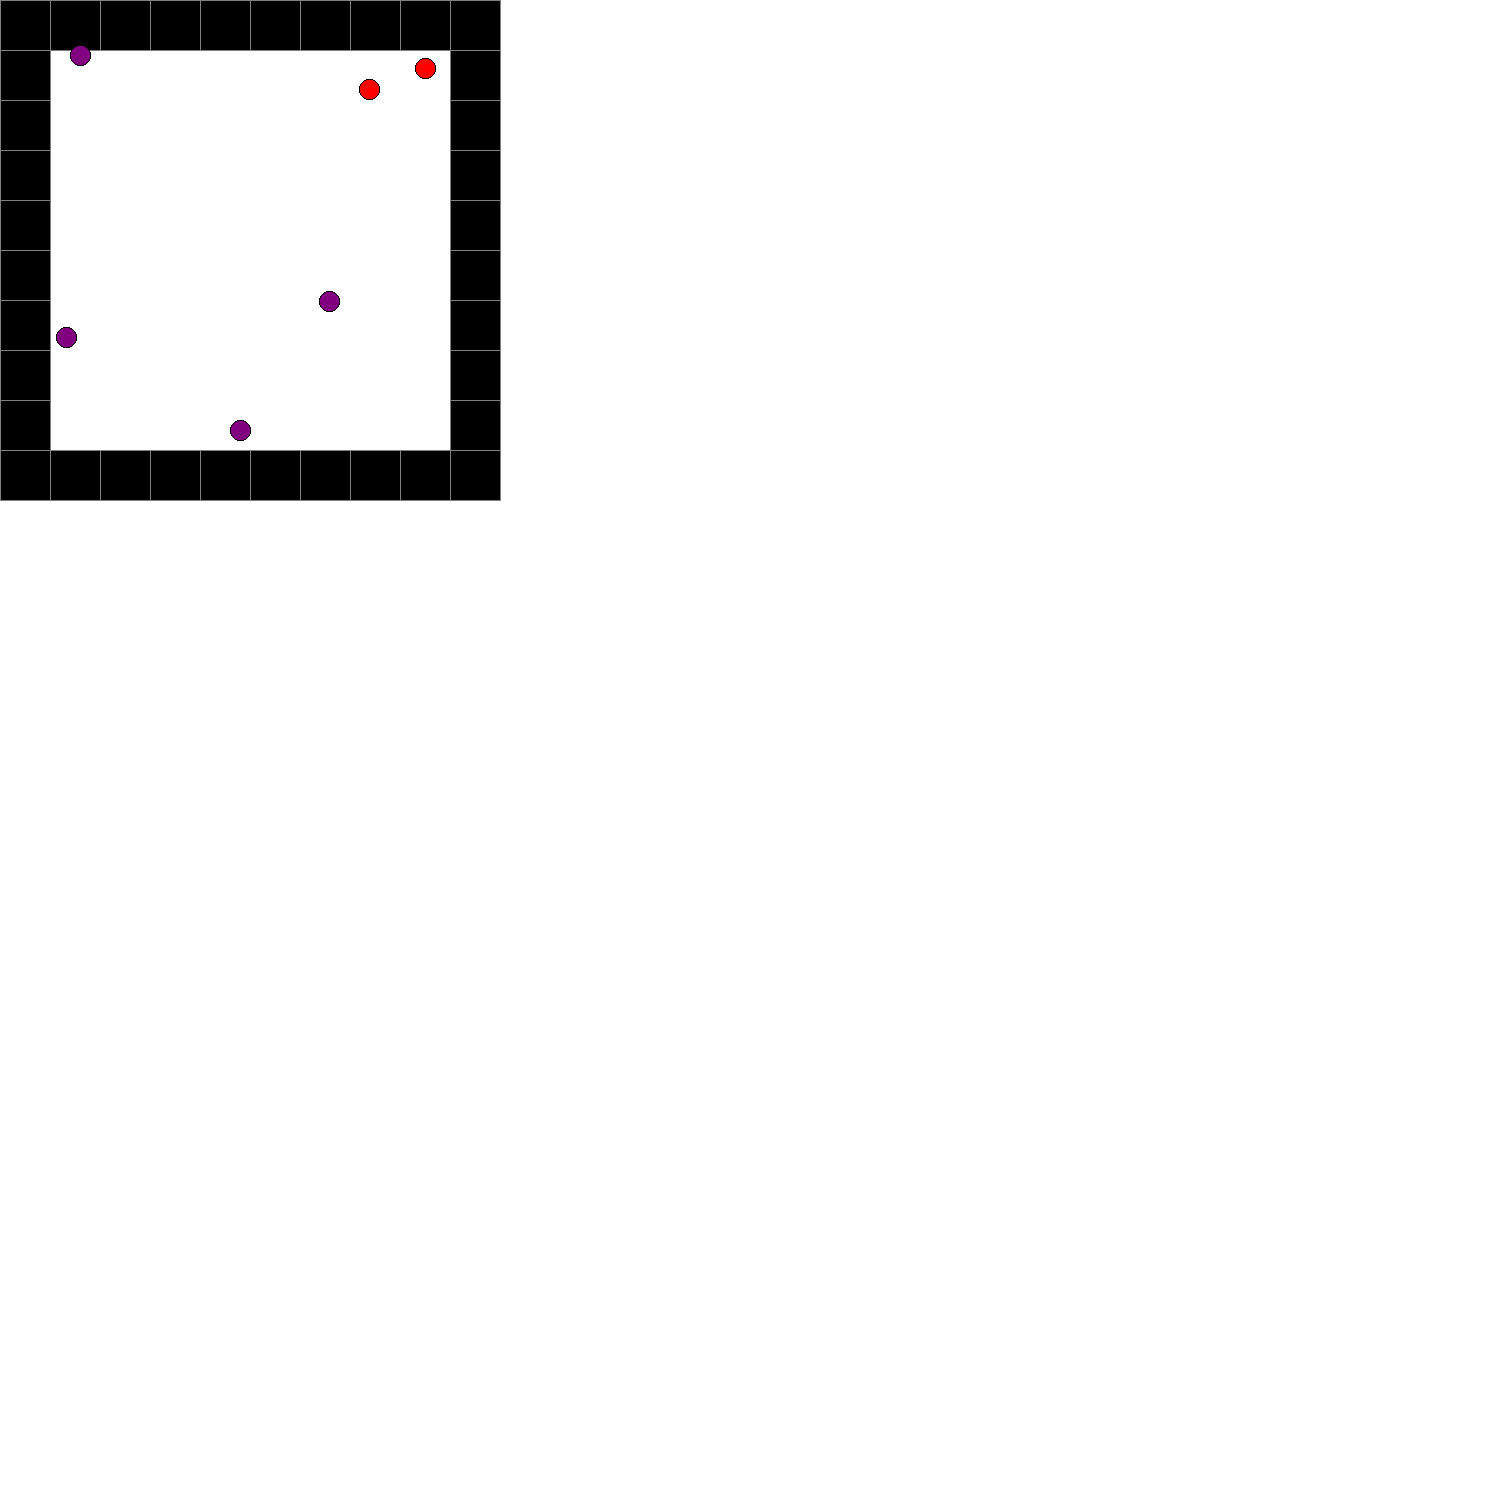
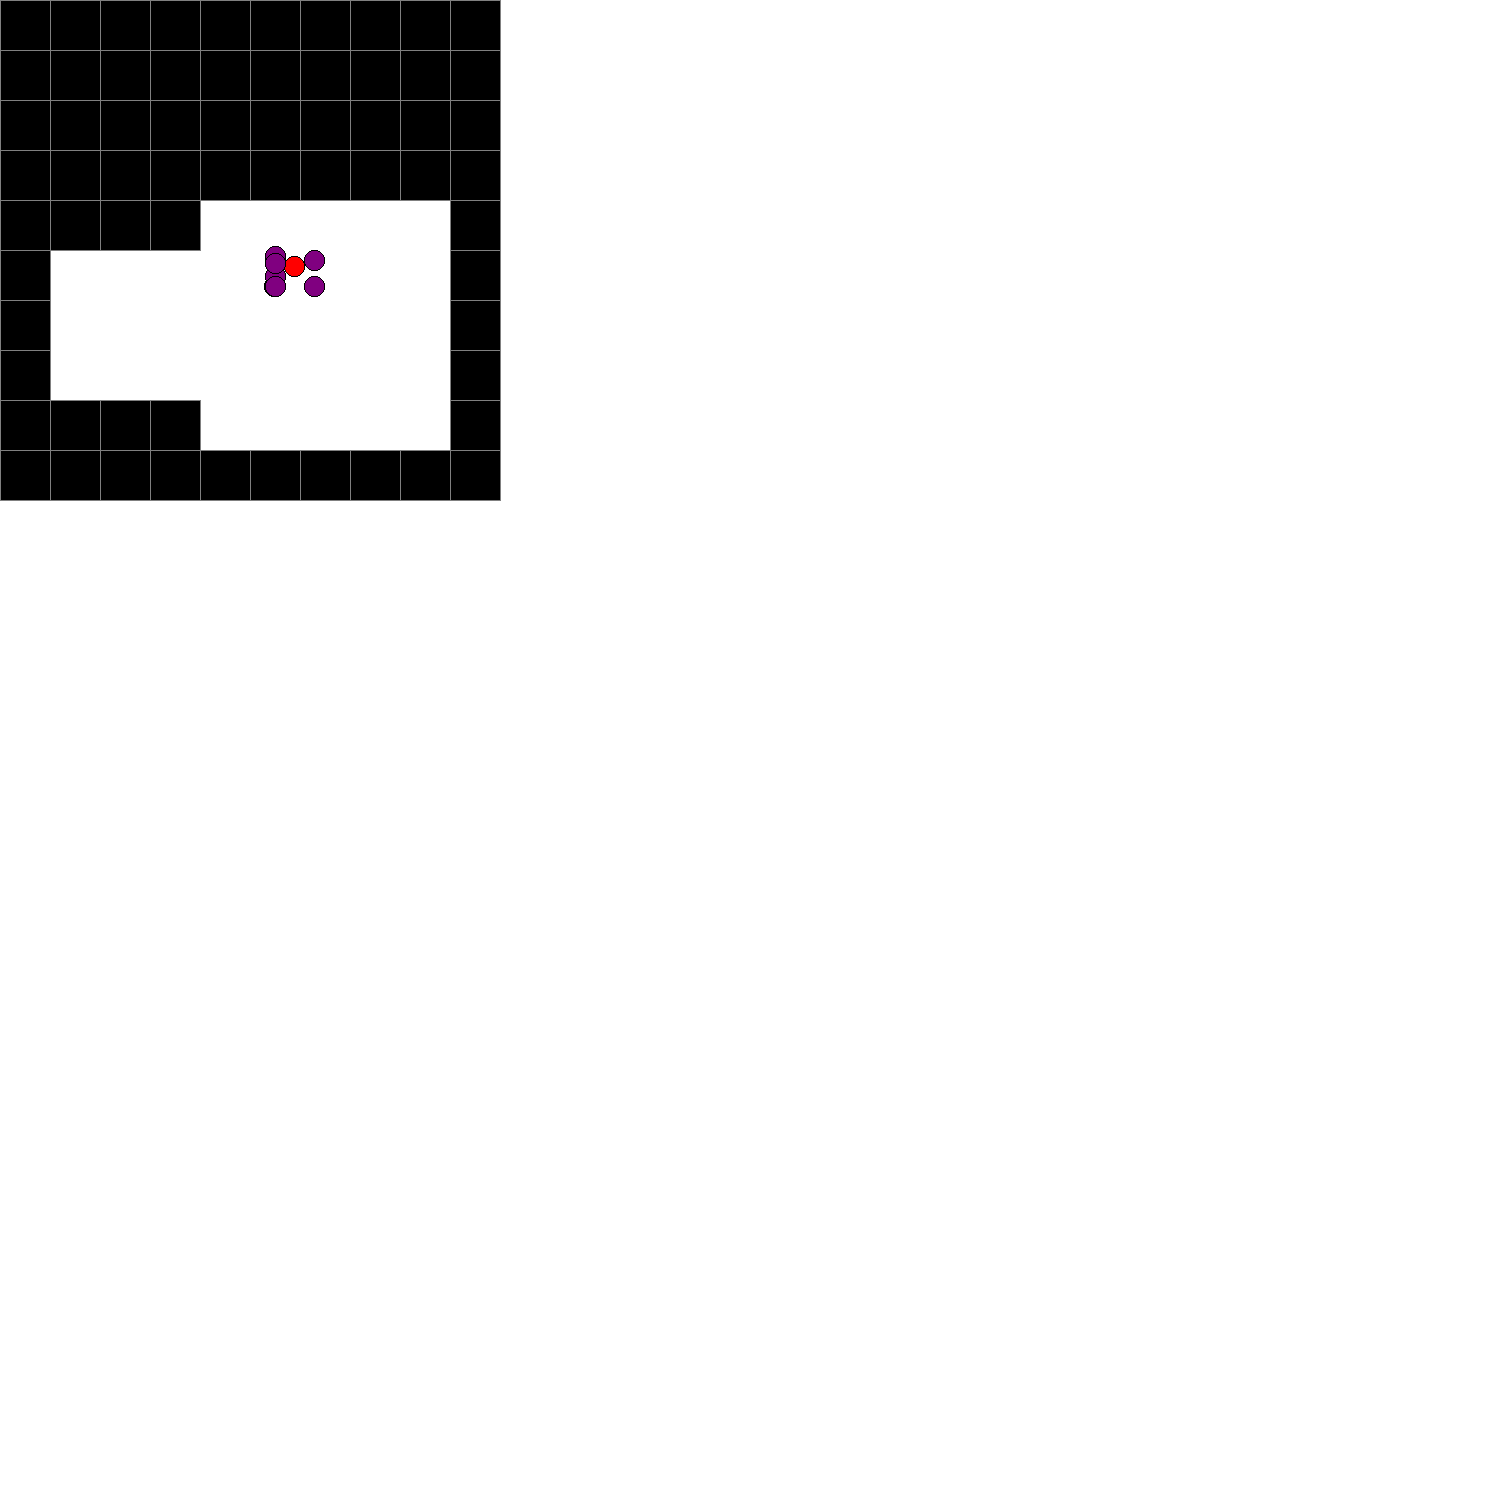
comment

Changed region(s): [[0.0307, 0.0307, 0.3067, 0.2147], [0.0307, 0.2147, 0.184, 0.3067]]

diff --git a/sandbox/Player/main.py b/sandbox/Player/main.py
@@ -13,10 +13,11 @@ import math
 import random
 
 
-angle = 45
+angle = 45 #valeur par defaut
 
-vie = 100
+vie = 100 #vie par defaut
 
+#Map de secours, "X" represente les murs
 string_map = [["X","X","X","X","X","X","X","X","X","X"],
               ["X",".",".",".",".",".",".",".",".","X"],
               ["X",".",".",".",".",".",".",".",".","X"],
@@ -28,7 +29,7 @@ string_map = [["X","X","X","X","X","X","X","X","X","X"],
               ["X",".",".",".",".",".",".",".",".","X"],
               ["X","X","X","X","X","X","X","X","X","X"]]
 
-
+#Position du player aleatoire
 player_x = random.randint(0,499)
 player_y = random.randint(0,499)
 
@@ -40,10 +41,12 @@ def input_callback(io_type, name, value_type, value, my_data):
     global string_map
     global vie
 
+    #tant que le player se trouve dans un mur, on retire une position aléatoire
     while string_map[int(player_x/50)][int(player_y/50)] == "X":
         player_x = random.randint(0,499)
         player_y = random.randint(0,499)
 
+    #sauvegarde de la pos du player avant mouvements
     tmp_x = player_x
     tmp_y = player_y
 
@@ -70,11 +73,12 @@ def input_callback(io_type, name, value_type, value, my_data):
         if angle < 0:
             angle += 2 * math.pi
 
+    #mise en forme de la map dans le string
     elif name=="map":
         temp_list = []
         temp_sub_list = []
         for i in range(len(value)):
-            if value[i] == "R":
+            if value[i] == "R": #retour à la ligne
                 temp_list.append(temp_sub_list)
                 temp_sub_list = []
             else:
@@ -82,13 +86,14 @@ def input_callback(io_type, name, value_type, value, my_data):
         temp_list.append(temp_sub_list)
         string_map = temp_list
 
+    #gestion degat et de la vie
     elif name=="degat":
         vie -= value
         igs.output_set_double("vie",vie)
-        if vie < 1:
+        if vie < 1: #mort
             igs.output_set_impulsion("death")
             mur = 1
-            while mur!=0 :
+            while mur!=0 : #respawn aleatoire sur la map
                 random_x = random.randint(0,499)
                 random_y = random.randint(0,499)
                 if string_map[int(random_x/50)][int(random_y/50)] != "X":
@@ -97,6 +102,7 @@ def input_callback(io_type, name, value_type, value, my_data):
                     mur = 0
             vie = 100
 
+    #le player se fait tuer par un autre player
     elif name=="kill":
         mur = 1;
         while mur :
@@ -106,8 +112,8 @@ def input_callback(io_type, name, value_type, value, my_data):
                 player_x = random_x
                 player_y = random_y
                 mur = 0
-            
-
+    
+    #cas si le deplacement du joueur est dans le mur
     if string_map[int(player_x/50)][int(player_y/50)] == "X":
         player_x = tmp_x
         player_y = tmp_y

diff --git a/sandbox/EventKeyBoard/main.py b/sandbox/EventKeyBoard/main.py
@@ -11,39 +11,51 @@ import sys
 import ingescape as igs
 from pynput import keyboard, mouse
 
+#liste des touches appuyées
 pressed_keys = []
 
 def on_press(key):
+    '''
+    Fonction appelée lorsque une touche est appuyée
+
+    Input : key : la touche appuyée
+    '''
     global pressed_keys
+
     try:
         if key.char not in pressed_keys:
             pressed_keys.append(key.char)
         for k in pressed_keys:
             if k=='a':
-                igs.output_set_impulsion("A")
+                igs.output_set_impulsion("A") #tourner à gauche
             if k=='e':
-                igs.output_set_impulsion("E")
+                igs.output_set_impulsion("E") #tourner à droite
             if k=='z':
-                igs.output_set_impulsion("Z")
+                igs.output_set_impulsion("Z") #avancer
             if k=='q':
-                igs.output_set_impulsion("Q")
+                igs.output_set_impulsion("Q") #aller à gauche
             if k=='s':
-                igs.output_set_impulsion("S")
+                igs.output_set_impulsion("S") #reculer
             if k=='d':
-                igs.output_set_impulsion("D")
+                igs.output_set_impulsion("D") #aller à droite
             if k=='m':
-                igs.output_set_impulsion("M")
+                igs.output_set_impulsion("M") #couper tous les sons
             if k=='n':
-                igs.output_set_impulsion("N")
-    except AttributeError:
+                igs.output_set_impulsion("N") #couper uniquement la musique
+    except AttributeError: #autre touche appuyée
         print(f'Touche spéciale appuyée: {key}')
 
 def on_release(key):
+    '''
+    Fonction appelée lorsque une touche est relachée
+
+    Input : key : la touche relachée
+    '''
     global pressed_keys
     try:
+        #on enleve la touche de la liste des touches appuyées
         if key.char in pressed_keys:
             pressed_keys.remove(key.char)
-        print("Touches appuyées :", pressed_keys)
     except AttributeError:
         pass
     if key == keyboard.Key.esc:
@@ -86,15 +98,15 @@ if __name__ == "__main__":
 
     igs.start_with_device(sys.argv[2], int(sys.argv[3]))
 
-    # Ecouteur de clavier
+    # listener clavier
     keyboard_listener = keyboard.Listener(on_press=on_press, on_release=on_release)
     keyboard_listener.start()
 
-    # Ecouteur de souris
+    # listener souris
     mouse_listener = mouse.Listener(on_click=on_click)
     mouse_listener.start()
 
-    # Attendre la fin des écouteurs
+    # Attendre fin listener
     keyboard_listener.join()
     mouse_listener.join()
 

diff --git a/sandbox/Weapons/main.py b/sandbox/Weapons/main.py
@@ -12,12 +12,12 @@ import ingescape as igs
 import random
 import time
 
-arrow_left = 0
+arrow_left = 0 #nombre de fleches par defaut
 
 left_time = 0
 right_time = 0
-left_cooldown = 2
-right_cooldown = 0.5
+left_cooldown = 2 #cooldown avant de pouvoir tirer le prochain coup à l'arbalette
+right_cooldown = 0.5 #cooldown avant de pouvoir donner un coup de hache
 
 #inputs
 def input_callback(io_type, name, value_type, value, my_data):
@@ -27,17 +27,17 @@ def input_callback(io_type, name, value_type, value, my_data):
     global right_cooldown
     global arrow_left
 
-    if name == "kill":
-        arrow_left += random.randint(0,2)
+    if name == "kill": #monstre tué
+        arrow_left += random.randint(0,2) #donne un nombre de fleche aleatoire entre 0 et 2
         igs.output_set_int("arrow_left",arrow_left)
-    elif name == "click_right":
+    elif name == "click_right": #coup de hache
         timestamp = time.time()
-        if timestamp - right_time > right_cooldown:
+        if timestamp - right_time > right_cooldown: #si cooldown passé
             right_time = timestamp
             igs.output_set_impulsion("sword_shoot")  
-    elif name == "click_left":
+    elif name == "click_left": #arbalette
         timestamp = time.time()
-        if arrow_left > 0 and timestamp - left_time > left_cooldown:
+        if arrow_left > 0 and timestamp - left_time > left_cooldown: #on a des fleches et si cooldown passé
             arrow_left -= 1
             left_time = timestamp
             igs.output_set_impulsion("arbalete_shoot") 

diff --git a/sandbox/Scorer/main.py b/sandbox/Scorer/main.py
@@ -10,30 +10,16 @@
 import sys
 import ingescape as igs
 
-score = 0
-s = ""
+score = 0 #score par defaut
 
 #inputs
 def input_callback(iop_type, name, value_type, value, my_data):
     global score
-    global s
 
-    if name == "score":
+    if name == "score": #point marqué, on rajoute 50 
         score += 50
         igs.output_set_string("out","Score: "+str(score)) 
         igs.output_set_int("score",score)
-    elif name == "score_multi":
-        s = "Tableau des score:\n" 
-        if value == "[]":
-            return
-        for i in value.split("("):
-            if i != "[" and i != "":
-                t = i.strip()[:-2].split(",")
-                s += "player_"+t[0]+" : "+t[1] + "\n"
-        s = s[:-1]
-        igs.service_call("Whiteboard", "chat",s, "")
-    elif name == "print_score_multi":
-        igs.service_call("Whiteboard", "chat",s, "")
 
     # add code here if needed
 
@@ -54,7 +40,6 @@ if __name__ == "__main__":
 
     igs.input_create("start", igs.IMPULSION_T, None)
     igs.input_create("score", igs.IMPULSION_T, None)
-    igs.input_create("score_multi", igs.STRING_T, None)
 
     igs.output_create("out", igs.STRING_T, None)
     igs.output_create("score", igs.INTEGER_T, None)
@@ -62,7 +47,6 @@ if __name__ == "__main__":
 
     igs.observe_input("start", input_callback, None)
     igs.observe_input("score", input_callback, None)
-    igs.observe_input("score_multi", input_callback, None)
 
     igs.start_with_device(sys.argv[2], int(sys.argv[3]))
 

diff --git a/sandbox/Sound_manager/main.py b/sandbox/Sound_manager/main.py
@@ -12,9 +12,10 @@ import ingescape as igs
 import pygame
 
 music_play = True
-music_trigger = False
+music_trigger = False #lancer la musique après la cinématique du début
 sound_on = True
 
+#Tous les sons du projet
 music_link = "./sounds/music.mp3"
 death_link = "./sounds/death.mp3"
 monster_death_link = "./sounds/monster_death.mp3"
@@ -23,9 +24,10 @@ crossbow_link = "./sounds/crossbow.mp3"
 sword_link = "./sounds/sword.mp3"
 degat_link = "./sounds/degat.mp3"
 
+#vie par défaut
 vie = 100
 
-# Inputs
+# Pour chaque cas, on joue le son qui correspond à la situation
 def input_callback(iop_type, name, value_type, value, my_data):
     global music_play
     global sound_on
@@ -66,7 +68,7 @@ def input_callback(iop_type, name, value_type, value, my_data):
         degat = pygame.mixer.Sound(degat_link)
         degat.play()
         vie = value
-    elif name == "music_trigger":
+    elif name == "music_trigger": #cinématique finie, on lance la musique
         music_trigger = not music_trigger
         if music_trigger == False:
             pygame.mixer.music.pause()
@@ -110,6 +112,7 @@ if __name__ == "__main__":
 
     pygame.mixer.init()
 
+    #on charge la musique du jeu
     pygame.mixer.music.load(music_link)
 
     input()

diff --git a/sandbox/Screamer/main.py b/sandbox/Screamer/main.py
@@ -31,7 +31,7 @@ if __name__ == "__main__":
     igs.output_create("screamer", igs.IMPULSION_T, None)
 
     igs.start_with_device(sys.argv[2], int(sys.argv[3]))
-
+    #apparition aleatoire du screamer
     while(1):
         r = random.randint(0,1000)
         if r < 2:
